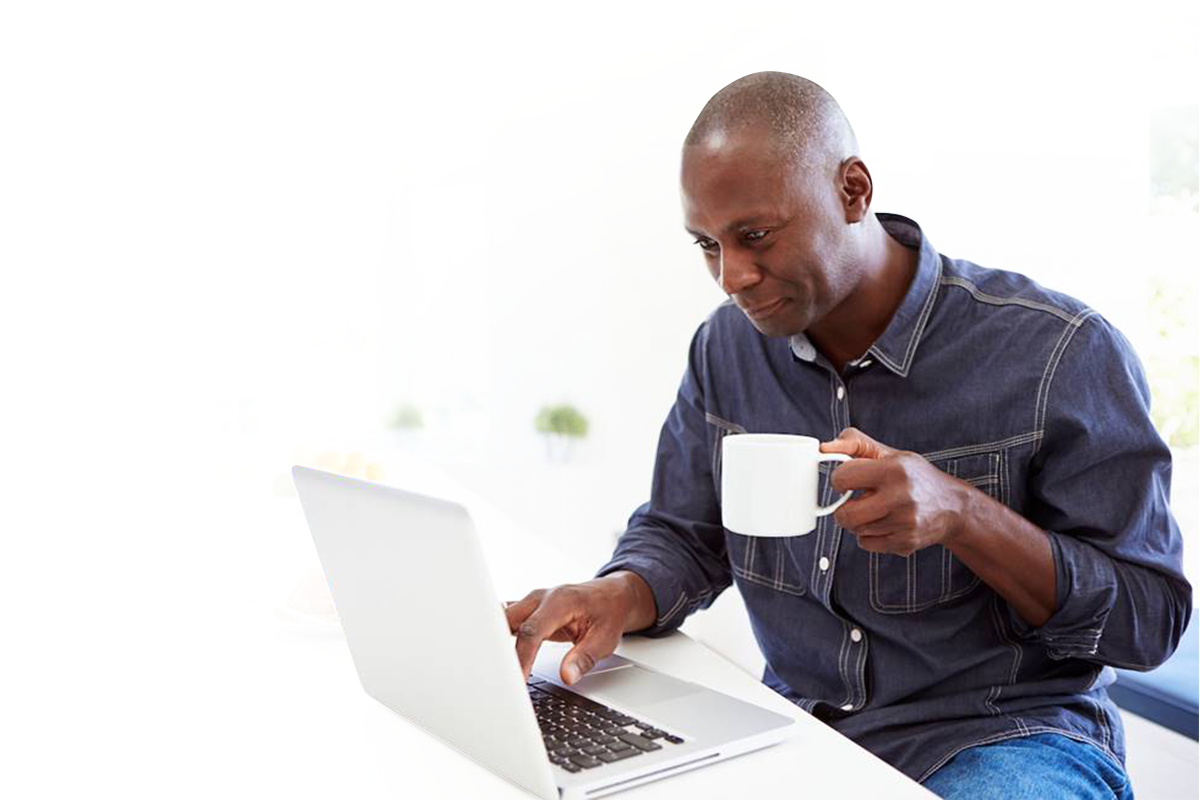
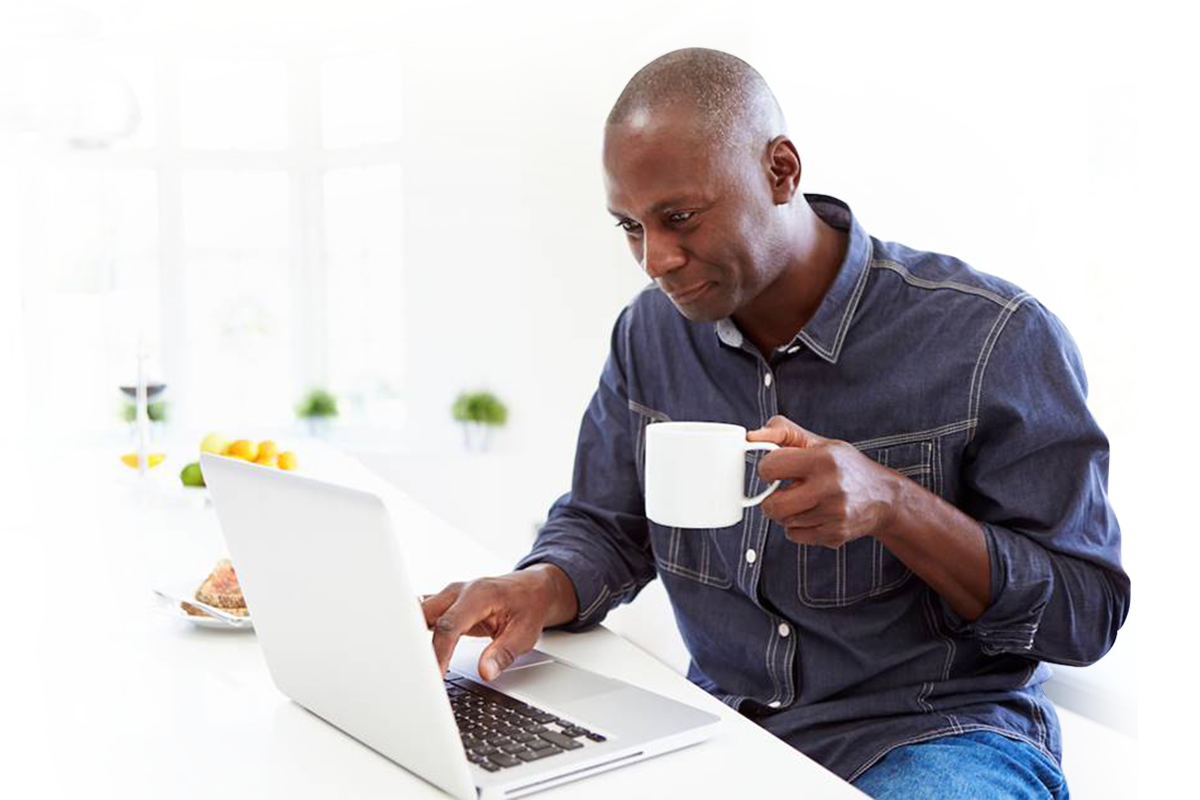
Add files via upload
update masthead image, add new pricing section

diff --git a/index.html b/index.html
@@ -268,7 +268,7 @@
                 <div class="col-lg-6 col-md-6 pricing-panel-img">
                 </div>
                 <div class="col-lg-6 col-md-6 side-panel">
-                    <h2 class="mt-0">Pricing and Subscription</h2>
+                    <h2 class="mt-0">Individual Subscription</h2>
                     <hr class="divider my-4" style="margin: 0" />
                     <span style="font-weight: 700; margin-right: 10px;">SELECT CURRENCY: </span>
                     <p class="text-muted" id="currency-options">
@@ -357,11 +357,96 @@
         </div>
     </section>
 
+    <!-- Small Business section-->
+    <section id="smallbusiness">
+        <div class="container">
+            <div class="row no-gutters">
+                <div class="col-lg-6 col-md-6 side-panel order-2 order-md-6">
+                    <h2 class="mt-0">Small Business Package</h2>
+                    <hr class="divider my-4" style="margin: 0" />
+                    <span style="font-weight: 700; margin-right: 10px;">SELECT CURRENCY: </span>
+                    <p class="text-muted" id="currency-options-sm">
+                        <span id="smSelectNZD" class="selected">NZD</span>
+                        <span id="smSelectAUD">AUD</span>
+                        <span id="smSelectUSD">USD</span>
+                        <span id="smSelectSING">SING</span>
+                        <span id="smSelectGBP">GBP</span>
+                        <span id="smSelectEUR">EUR</span>
+                    </p>
+                    <div id="currency-info-sm">
+                        <!-- NZD section-->
+                        <div class="nzd-info-sm">
+                            <p class="text-muted" style="margin-bottom: -15px;">BUY 5 ANNUAL SUBSCRIPTIONS</p>
+                            <div class="pricing-card-price pricing-card-price-current">
+                                <span class="pricing-card-price-base">Get 2 Free</span>
+                            </div>
+                            <p class="text-muted" style="margin-top: -15px;">$870 per Annum plus GST <strong>$24.50 Per Month</strong></p>
+                        </div>
+                        <!-- AUD section-->
+                        <div class="aud-info-sm" style="display: none;">
+                            <p class="text-muted" style="margin-bottom: -15px;">BUY 5 ANNUAL SUBSCRIPTIONS</p>
+                            <div class="pricing-card-price pricing-card-price-current">
+                                <span class="pricing-card-price-base">Get 2 Free</span>
+                            </div>
+                            <p class="text-muted" style="margin-top: -15px;">$828 per Annum plus GST $23.00 Per Month</p>
+                        </div>
+                        <!-- USD section-->
+                        <div class="usd-info-sm" style="display: none;">
+                            <p class="text-muted" style="margin-bottom: -15px;">BUY 5 ANNUAL SUBSCRIPTIONS</p>
+                            <div class="pricing-card-price pricing-card-price-current">
+                                <span class="pricing-card-price-base">Get 2 Free</span>
+                            </div>
+                            <p class="text-muted" style="margin-top: -15px;">$526 per Annum $14.00 Per Month</p>
+                        </div>
+                        <!-- SING section-->
+                        <div class="sing-info-sm" style="display: none;">
+                            <p class="text-muted" style="margin-bottom: -15px;">BUY 5 ANNUAL SUBSCRIPTIONS</p>
+                            <div class="pricing-card-price pricing-card-price-current">
+                                <span class="pricing-card-price-base">Get 2 Free</span>
+                            </div>
+                            <p class="text-muted" style="margin-top: -15px;">$748 per Annum plus GST $21.00 Per Month</p>
+                        </div>
+                        <!-- GBP section-->
+                        <div class="gbp-info-sm" style="display: none;">
+                            <p class="text-muted" style="margin-bottom: -15px;">BUY 5 ANNUAL SUBSCRIPTIONS</p>
+                            <div class="pricing-card-price pricing-card-price-current">
+                                <span class="pricing-card-price-base">Get 2 Free</span>
+                            </div>
+                            <p class="text-muted" style="margin-top: -15px;">£422 per Annum plus VAT £12.00 Per Month</p>
+                        </div>
+                        <!-- EUR section-->
+                        <div class="eur-info-sm" style="display: none;">
+                            <p class="text-muted" style="margin-bottom: -15px;">BUY 5 ANNUAL SUBSCRIPTIONS</p>
+                            <div class="pricing-card-price pricing-card-price-current">
+                                <span class="pricing-card-price-base">Get 2 Free</span>
+                            </div>
+                            <p class="text-muted" style="margin-top: -15px;">€484 per Annum plus VAT €12.00 Per Month</p>
+                        </div>
+                    </div>
+                    <img src="assets/img/supported-credit-cards.png"
+                        alt="Visa, MasterCard, American Express and Discover supported" class="mb-3"> <br>
+                    <p class="text-muted mb-3">
+                        We support all major credit cards.<br>No PayPal account required.
+                    </p>
+                    <p class="text-muted mb-4">We offer unlimited video minutes, unlimited document transactions and
+                        unlimited video recordings.</p>
+                    <a class="btn btn-primary btn-xl js-scroll-trigger mb-3"
+                        href="enterprise.html" style="margin:0px;">LETS CONNECT</a>
+                    <p class="text-muted" style="width: 85%;">Connect with our friendly team to find the best solution for you, we have many options to meet your needs.</p>
+                </div>
+                <div class="col-lg-6 col-md-6 smallbusiness-panel-img order-1 order-md-6">
+                </div>
+            </div>
+        </div>
+    </section>
+
     <!-- Subscribe section-->
     <section id="subscribe" class="mb-5">
         <div class="container">
             <div class="row no-gutters">
-                <div class="col-lg-6 col-md-6 side-panel order-2 order-md-6">
+                <div class="col-lg-6 col-md-6 subscribe-panel-img">
+                </div>
+                <div class="col-lg-6 col-md-6 side-panel">
                     <h2 class="mt-0">Enterprise</h2>
                     <hr class="divider my-4" style="margin: 0" />
                     <p class="text-muted mb-4">Digicel offers you the perfect solution for any team to operate from
@@ -370,8 +455,6 @@
                         anywhere, anytime.</p>
                     <a class="btn btn-primary btn-xl js-scroll-trigger"
                         href="enterprise.html" style="margin:0px;">LEARN MORE</a>
-                </div>
-                <div class="col-lg-6 col-md-6 order-1 order-md-6 subscribe-panel-img">
                 </div>
             </div>
         </div>

diff --git a/js/videosign.js b/js/videosign.js
@@ -72,7 +72,7 @@ $(document).ready(function () {
 
     $(".btn-control").mouseenter(function(){
         $('.modal-title').html("Give and Take Control")
-        $('.modal-body').html("This feature controls your virtual office you need to remember that you have to give control or take control to access any of the features in your room. Even when you join the room you have to take control before preforming features like upload document.")
+        $('.modal-body').html("This feature controls your Virtual Office you need to remember that you have to give control or take control to access any of the features in your room. Even when you join the room you have to take control before preforming features like upload document.")
         $("#tooltip-message").modal('show')
     })
 
@@ -82,7 +82,7 @@ $(document).ready(function () {
 
     $(".cam").mouseenter(function(){
         $('.modal-title').html("Upto 5 Live Cameras")
-        $('.modal-body').html("VideoSign accommodates for up to 5 people within your virtual office. You will always appear small to yourself and big to others in your room. You can always turn off you video if it is not appropriate or you have a poor internet connection. Once you have created a VideoSign workspace you can use it anytime you like. The host does not need to be present and in this case other invitees can meet each other at anytime. When documents are uploaded everyone in your room will be notified by email.")
+        $('.modal-body').html("VideoSign accommodates for up to 5 people within your Virtual Office. You will always appear small to yourself and big to others in your room. You can always turn off you video if it is not appropriate or you have a poor internet connection. Once you have created a VideoSign workspace you can use it anytime you like. The host does not need to be present and in this case other invitees can meet each other at anytime. When documents are uploaded everyone in your room will be notified by email.")
         $("#tooltip-message").modal('show')
     })
 

diff --git a/css/styles.css b/css/styles.css
@@ -10041,7 +10041,7 @@ hr.light {
 header.masthead {
   padding-top: 10rem;
   padding-bottom: calc(10rem - 4.5rem);
-  background-color: #ed1b2f;
+  background: linear-gradient(90deg, rgba(237,27,47,1) 0%, rgba(255,255,255,1) 85%);
   position: relative;
   /* background-image: url("../assets/img/masthead.png");
   background-position: right bottom;
@@ -10133,6 +10133,14 @@ header.masthead h1 {
   max-height: 560px;
 }
 
+.smallbusiness-panel-img {
+  background: url('../assets/img/3.jpg');
+  background-size: cover;
+  background-position: left;
+  min-height: 400px;
+  max-height: 810px;
+}
+
 /* images for guide.html */
 
 .first-img {
@@ -10170,8 +10178,12 @@ header.masthead h1 {
 
 
 @media (max-width: 675px) {
-  .pricing-panel-img, .subscribe-panel-img {
+  .pricing-panel-img, .subscribe-panel-img, .smallbusiness-panel-img {
     min-height:200px
+  }
+
+  .smallbusiness-panel-img {
+    background: url('../assets/img/3-long.jpg');
   }
   
   .side-panel {
@@ -10206,11 +10218,11 @@ header.masthead h1 {
   font-weight: 700;
 }
 
-#currency-options {
+#currency-options, #currency-options-sm {
   cursor: pointer;
 }
 
-#currency-options > .selected {
+#currency-options > .selected, #currency-options-sm > .selected {
   color: #ed1b2f;
   font-weight: 700;
   border-bottom: 2px solid #ed1b2f;
@@ -10419,7 +10431,8 @@ header.masthead h1 {
   }
 
   header.masthead {
-    background: #ed1b2f;
+    /* background: #ed1b2f; */
+    background: linear-gradient(90deg, rgba(237,27,47,1) 0%, rgba(255,255,255,1) 85%);
     padding-top: 6rem;
     padding-bottom: 0;
     background-image: url("../assets/img/highlight-light.png");

diff --git a/js/scripts.js b/js/scripts.js
@@ -97,4 +97,48 @@
     $(".eur-info").show()
   })
 
+  // Small Package Pricing
+
+  $("#smSelectNZD").click(() => {
+    $("#currency-options-sm").children().removeClass("selected")
+    $("#smSelectNZD").addClass("selected")
+    $("#currency-info-sm").children().hide()
+    $(".nzd-info-sm").show()
+  })
+
+  $("#smSelectAUD").click(() => {
+    $("#currency-options-sm").children().removeClass("selected")
+    $("#smSelectAUD").addClass("selected")
+    $("#currency-info-sm").children().hide()
+    $(".aud-info-sm").show()
+  })
+
+  $("#smSelectUSD").click(() => {
+    $("#currency-options-sm").children().removeClass("selected")
+    $("#smSelectUSD").addClass("selected")
+    $("#currency-info-sm").children().hide()
+    $(".usd-info-sm").show()
+  })
+
+  $("#smSelectSING").click(() => {
+    $("#currency-options-sm").children().removeClass("selected")
+    $("#smSelectSING").addClass("selected")
+    $("#currency-info-sm").children().hide()
+    $(".sing-info-sm").show()
+  })
+
+  $("#smSelectGBP").click(() => {
+    $("#currency-options-sm").children().removeClass("selected")
+    $("#smSelectGBP").addClass("selected")
+    $("#currency-info-sm").children().hide()
+    $(".gbp-info-sm").show()
+  })
+
+  $("#smSelectEUR").click(() => {
+    $("#currency-options-sm").children().removeClass("selected")
+    $("#smSelectEUR").addClass("selected")
+    $("#currency-info-sm").children().hide()
+    $(".eur-info-sm").show()
+  })
+
 })(jQuery); // End of use strict
